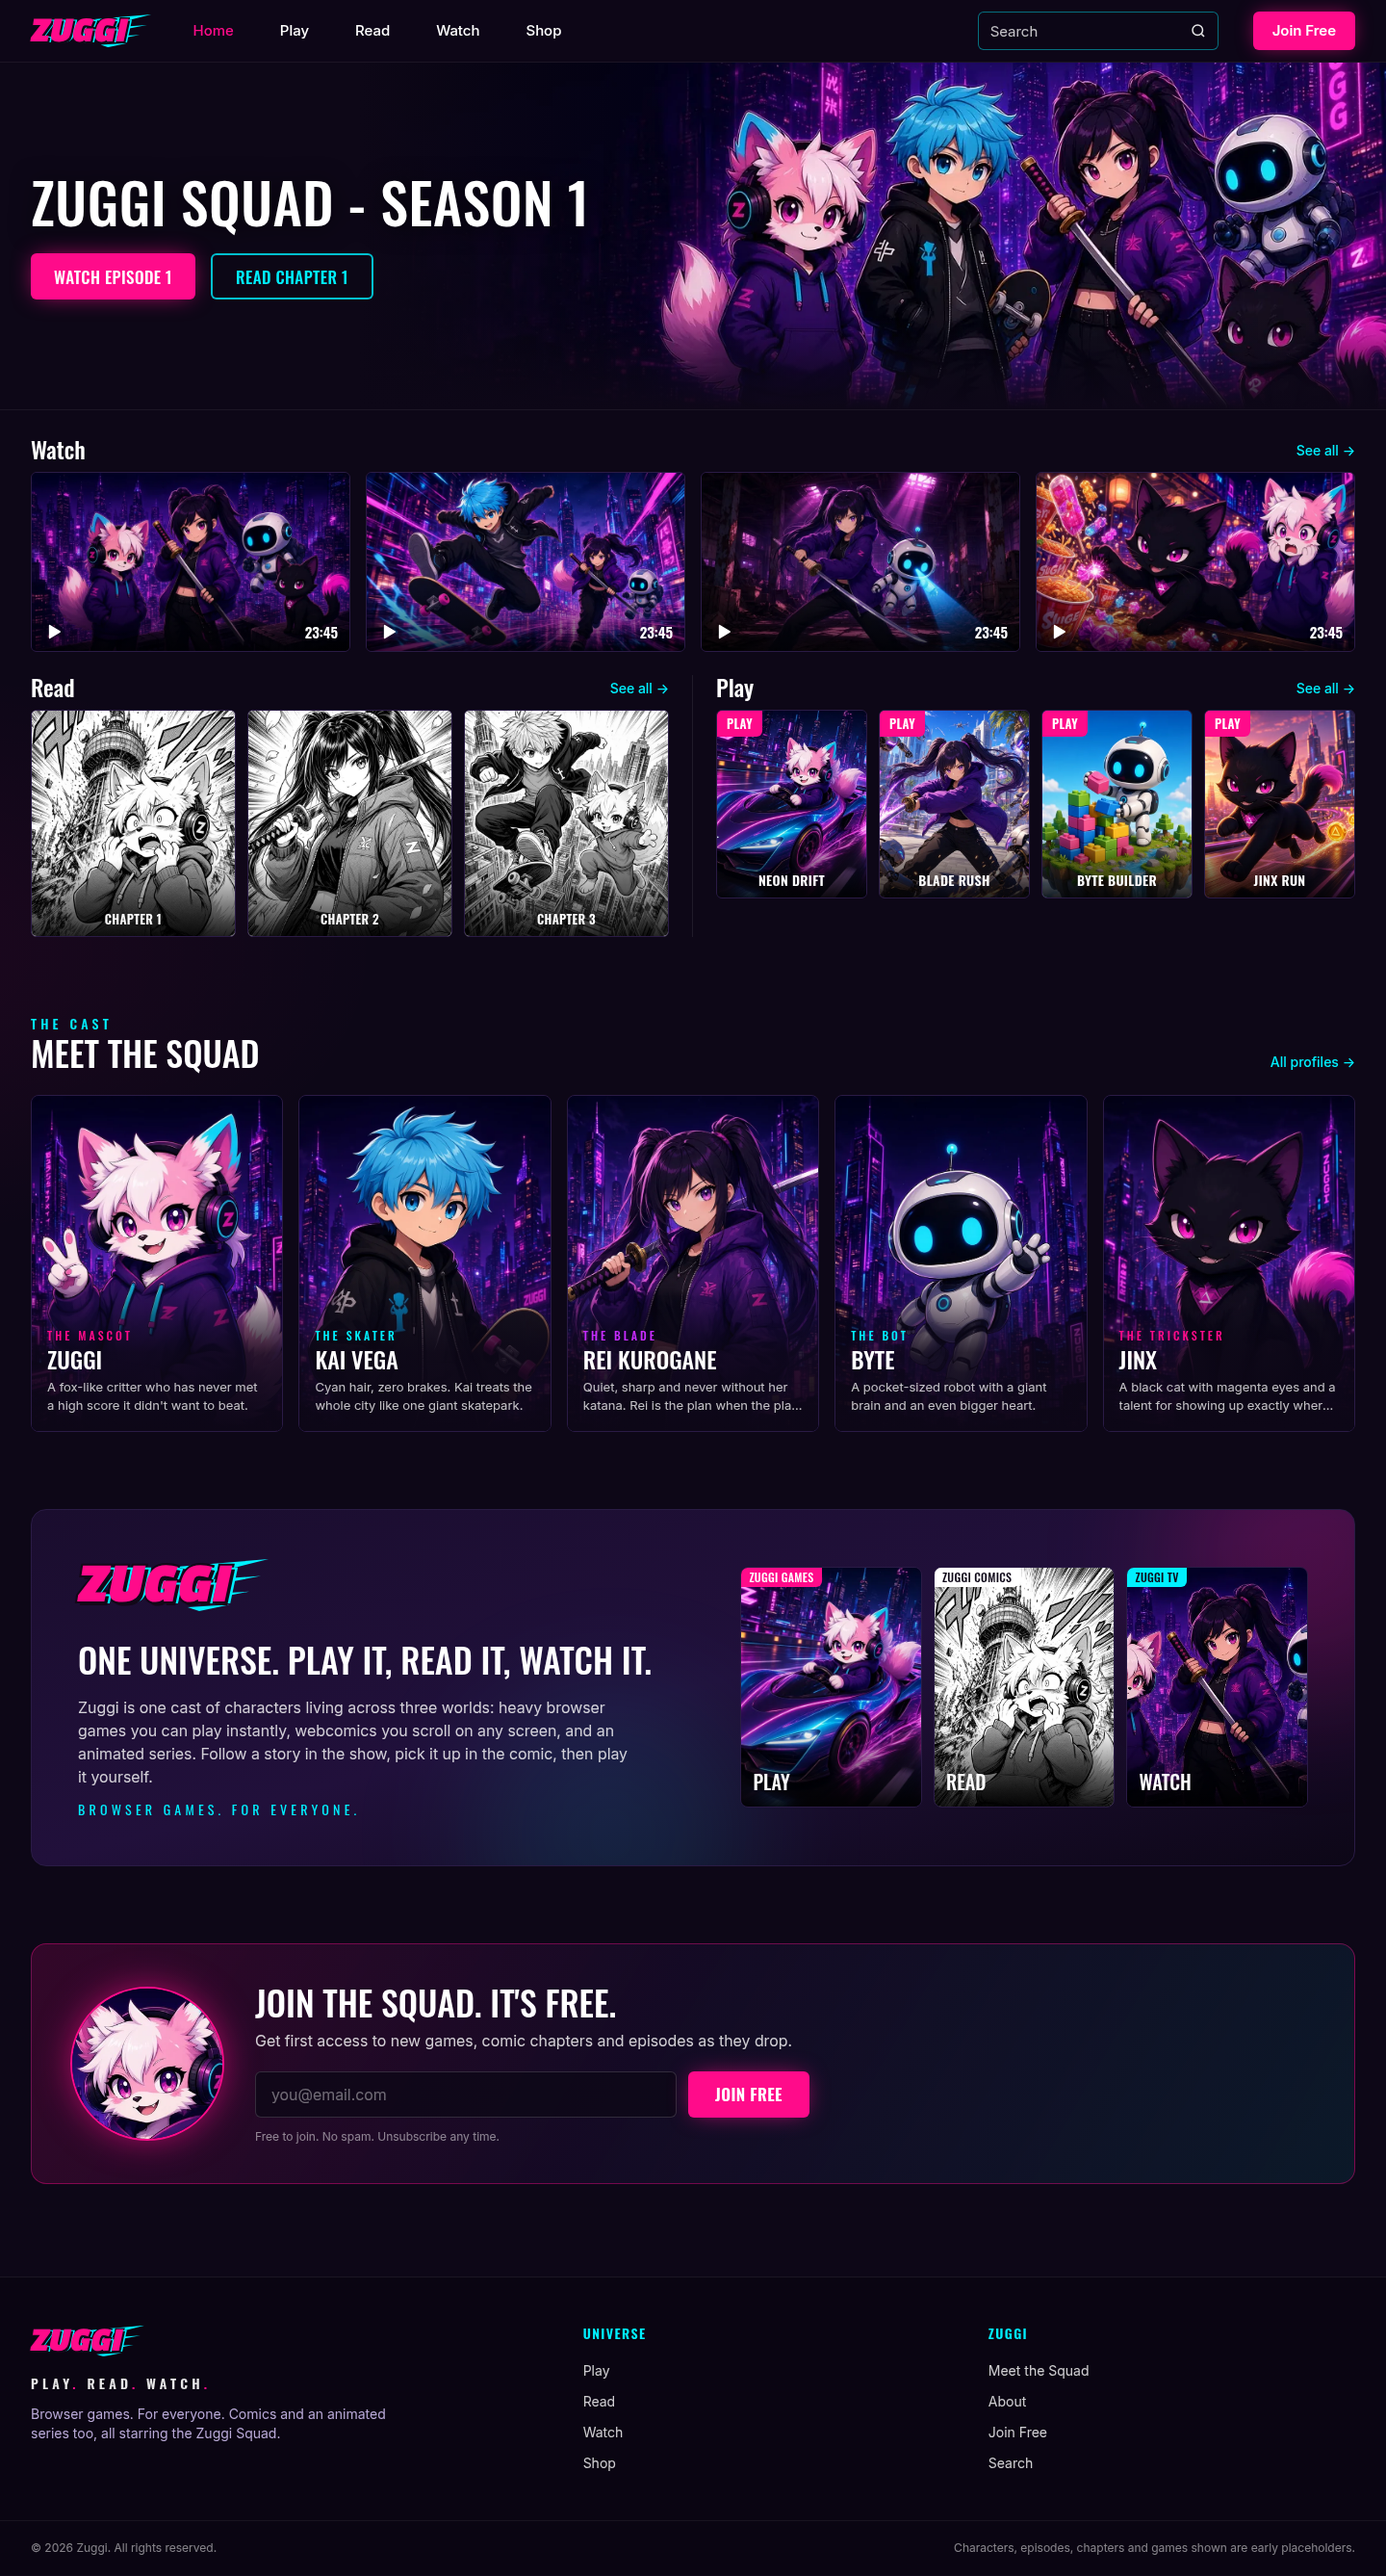
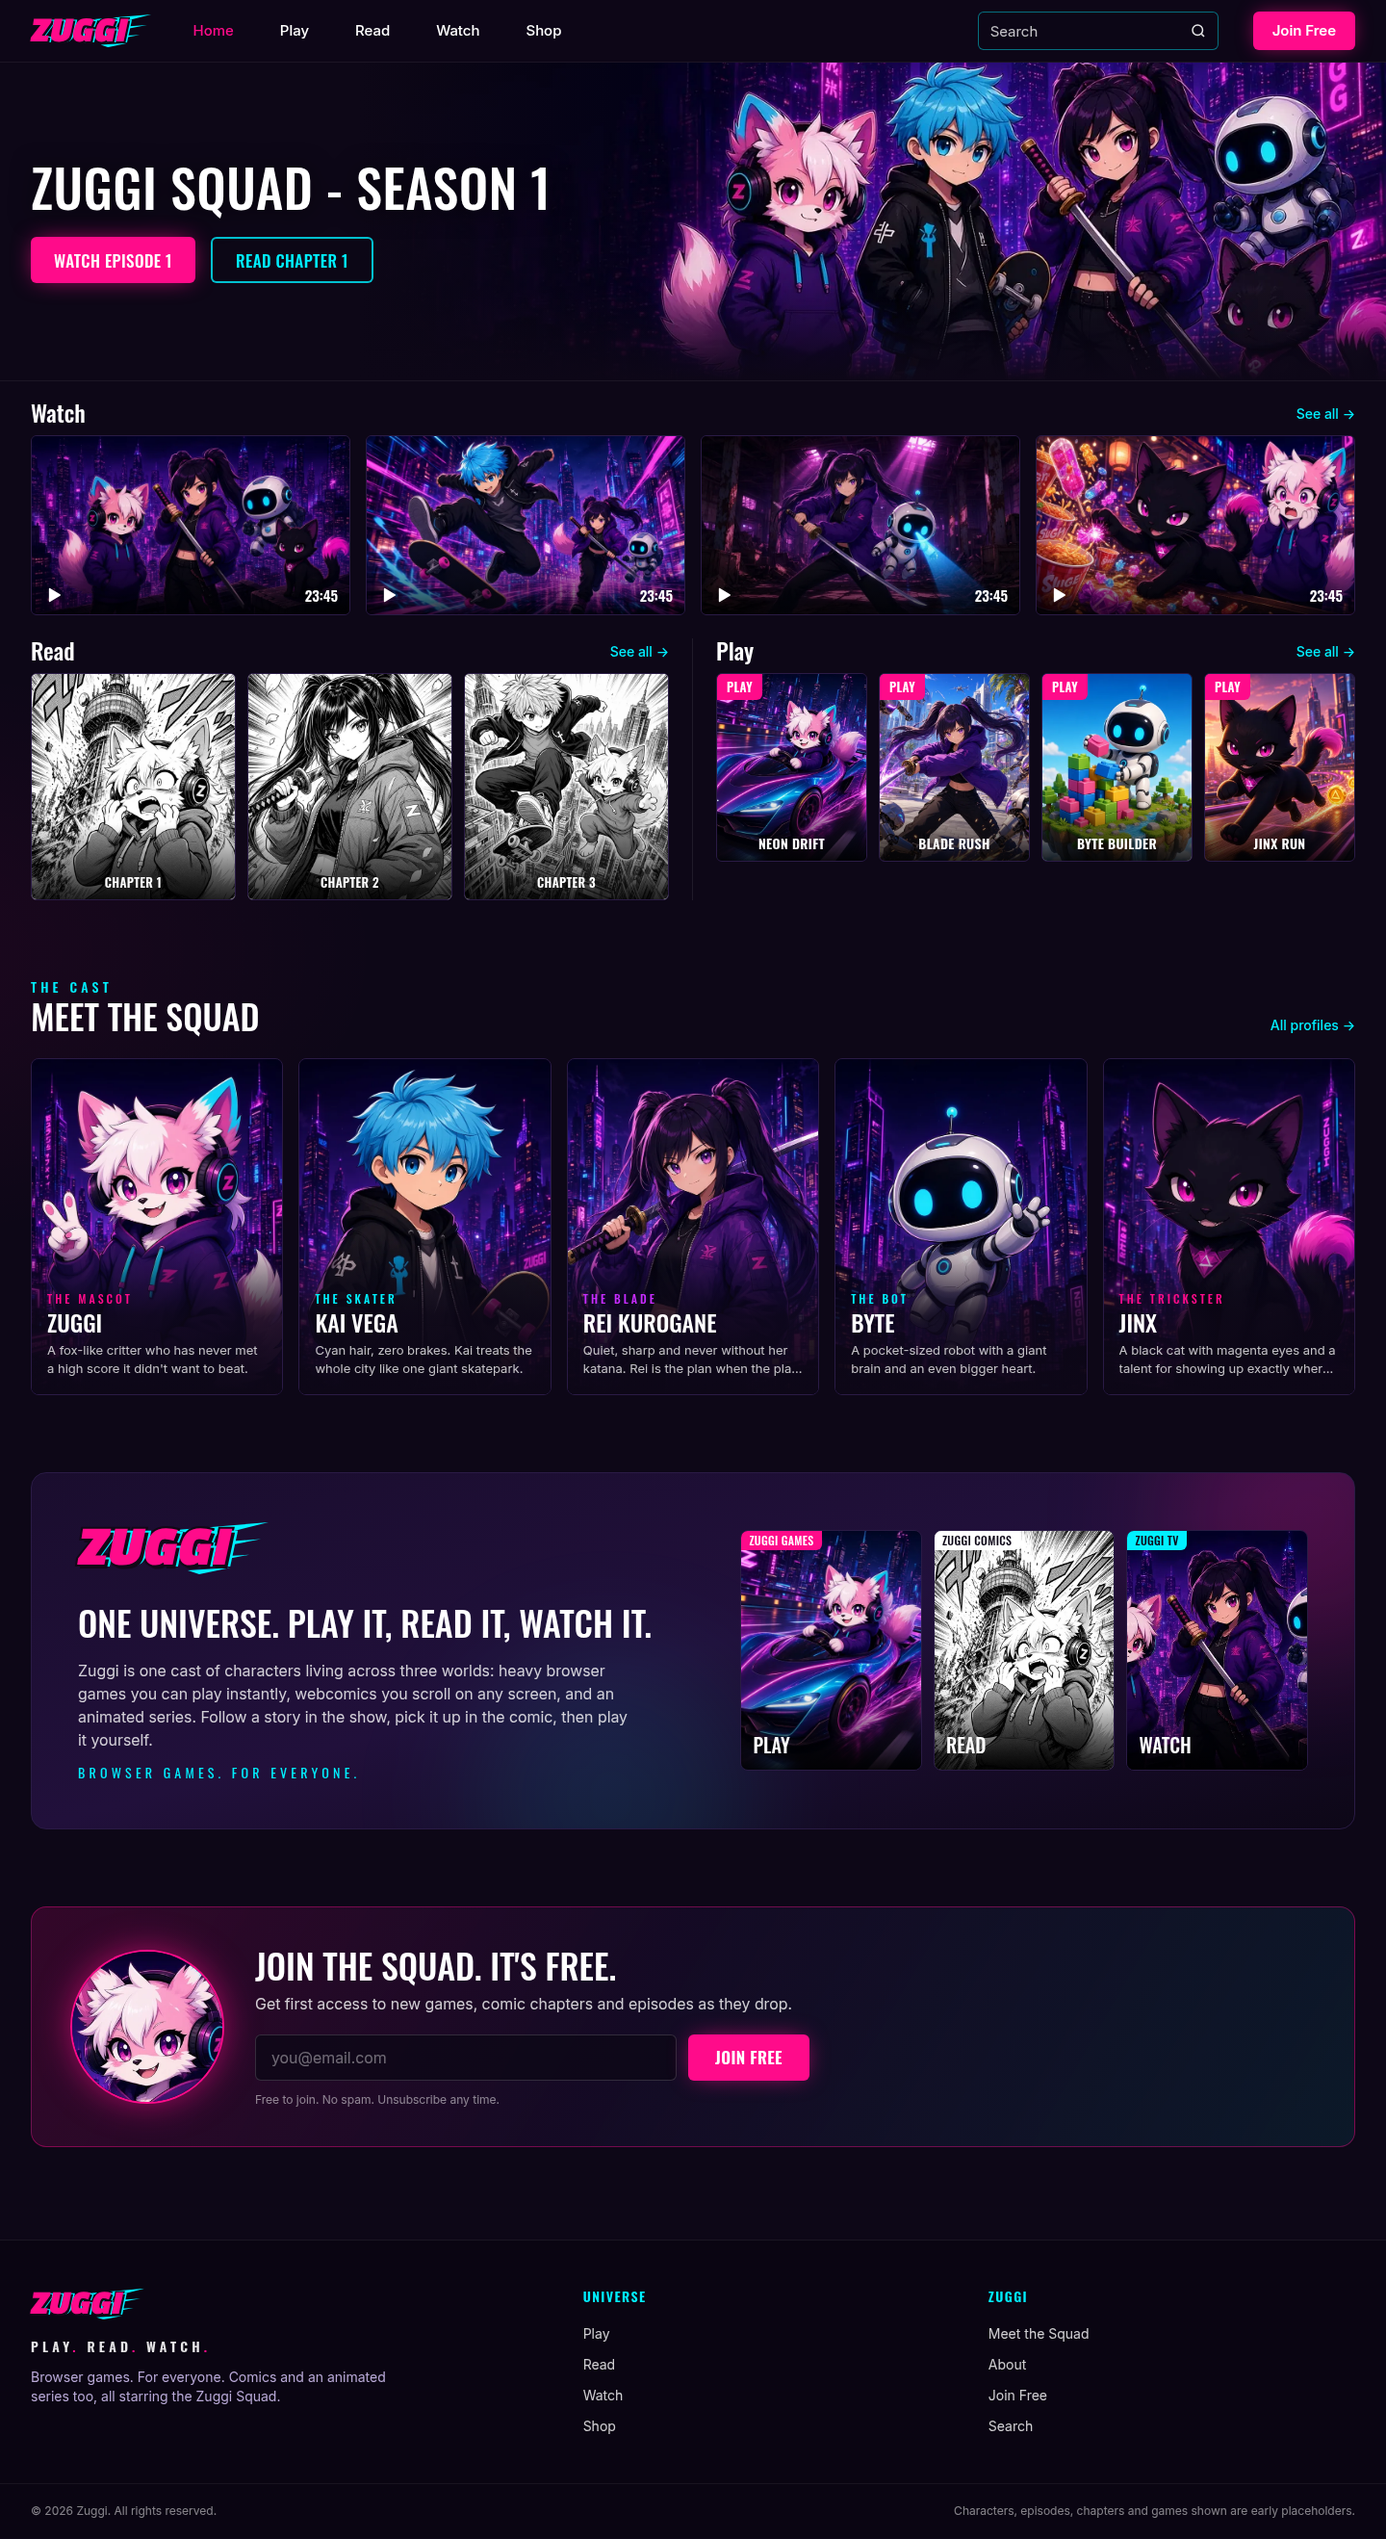
Tighten hero to match hub mockup; refresh screenshots

diff --git a/src/app/page.tsx b/src/app/page.tsx
@@ -31,9 +31,9 @@ export default function Home() {
           <div className="absolute inset-0 bg-gradient-to-r from-night via-night/60 to-transparent md:via-transparent md:via-30%" />
           <div className="absolute inset-x-0 bottom-0 h-24 bg-gradient-to-t from-night to-transparent" />
         </div>
-        <div className={`${wrap} relative flex min-h-[340px] items-center py-12 md:min-h-[320px] lg:min-h-[360px]`}>
+        <div className={`${wrap} relative flex min-h-[340px] items-center py-10 md:min-h-[300px] lg:min-h-[315px] xl:min-h-[330px]`}>
           <div className="max-w-2xl">
-            <h1 className="font-display lg:whitespace-nowrap text-[40px] font-medium uppercase leading-[1.05] tracking-[0.01em] drop-shadow-[0_2px_12px_rgba(0,0,0,.6)] sm:text-[52px] lg:text-[58px]">
+            <h1 className="font-display lg:whitespace-nowrap text-[40px] font-medium uppercase leading-[1.05] tracking-[0.01em] drop-shadow-[0_2px_12px_rgba(0,0,0,.6)] sm:text-[50px] lg:text-[54px]">
               Zuggi Squad - Season 1
             </h1>
             <div className="mt-6 flex flex-wrap gap-4">
@@ -49,7 +49,7 @@ export default function Home() {
       </section>
 
       {/* WATCH */}
-      <section className={`${wrap} pt-7`} aria-labelledby="watch-h">
+      <section className={`${wrap} pt-5`} aria-labelledby="watch-h">
         <SectionTitle href="/watch/"><span id="watch-h">Watch</span></SectionTitle>
         <div className="scroll-row -mx-4 flex gap-4 overflow-x-auto px-4 sm:mx-0 sm:grid sm:grid-cols-2 sm:overflow-visible sm:px-0 lg:grid-cols-4">
           {episodes.slice(0, 4).map((ep) => (
